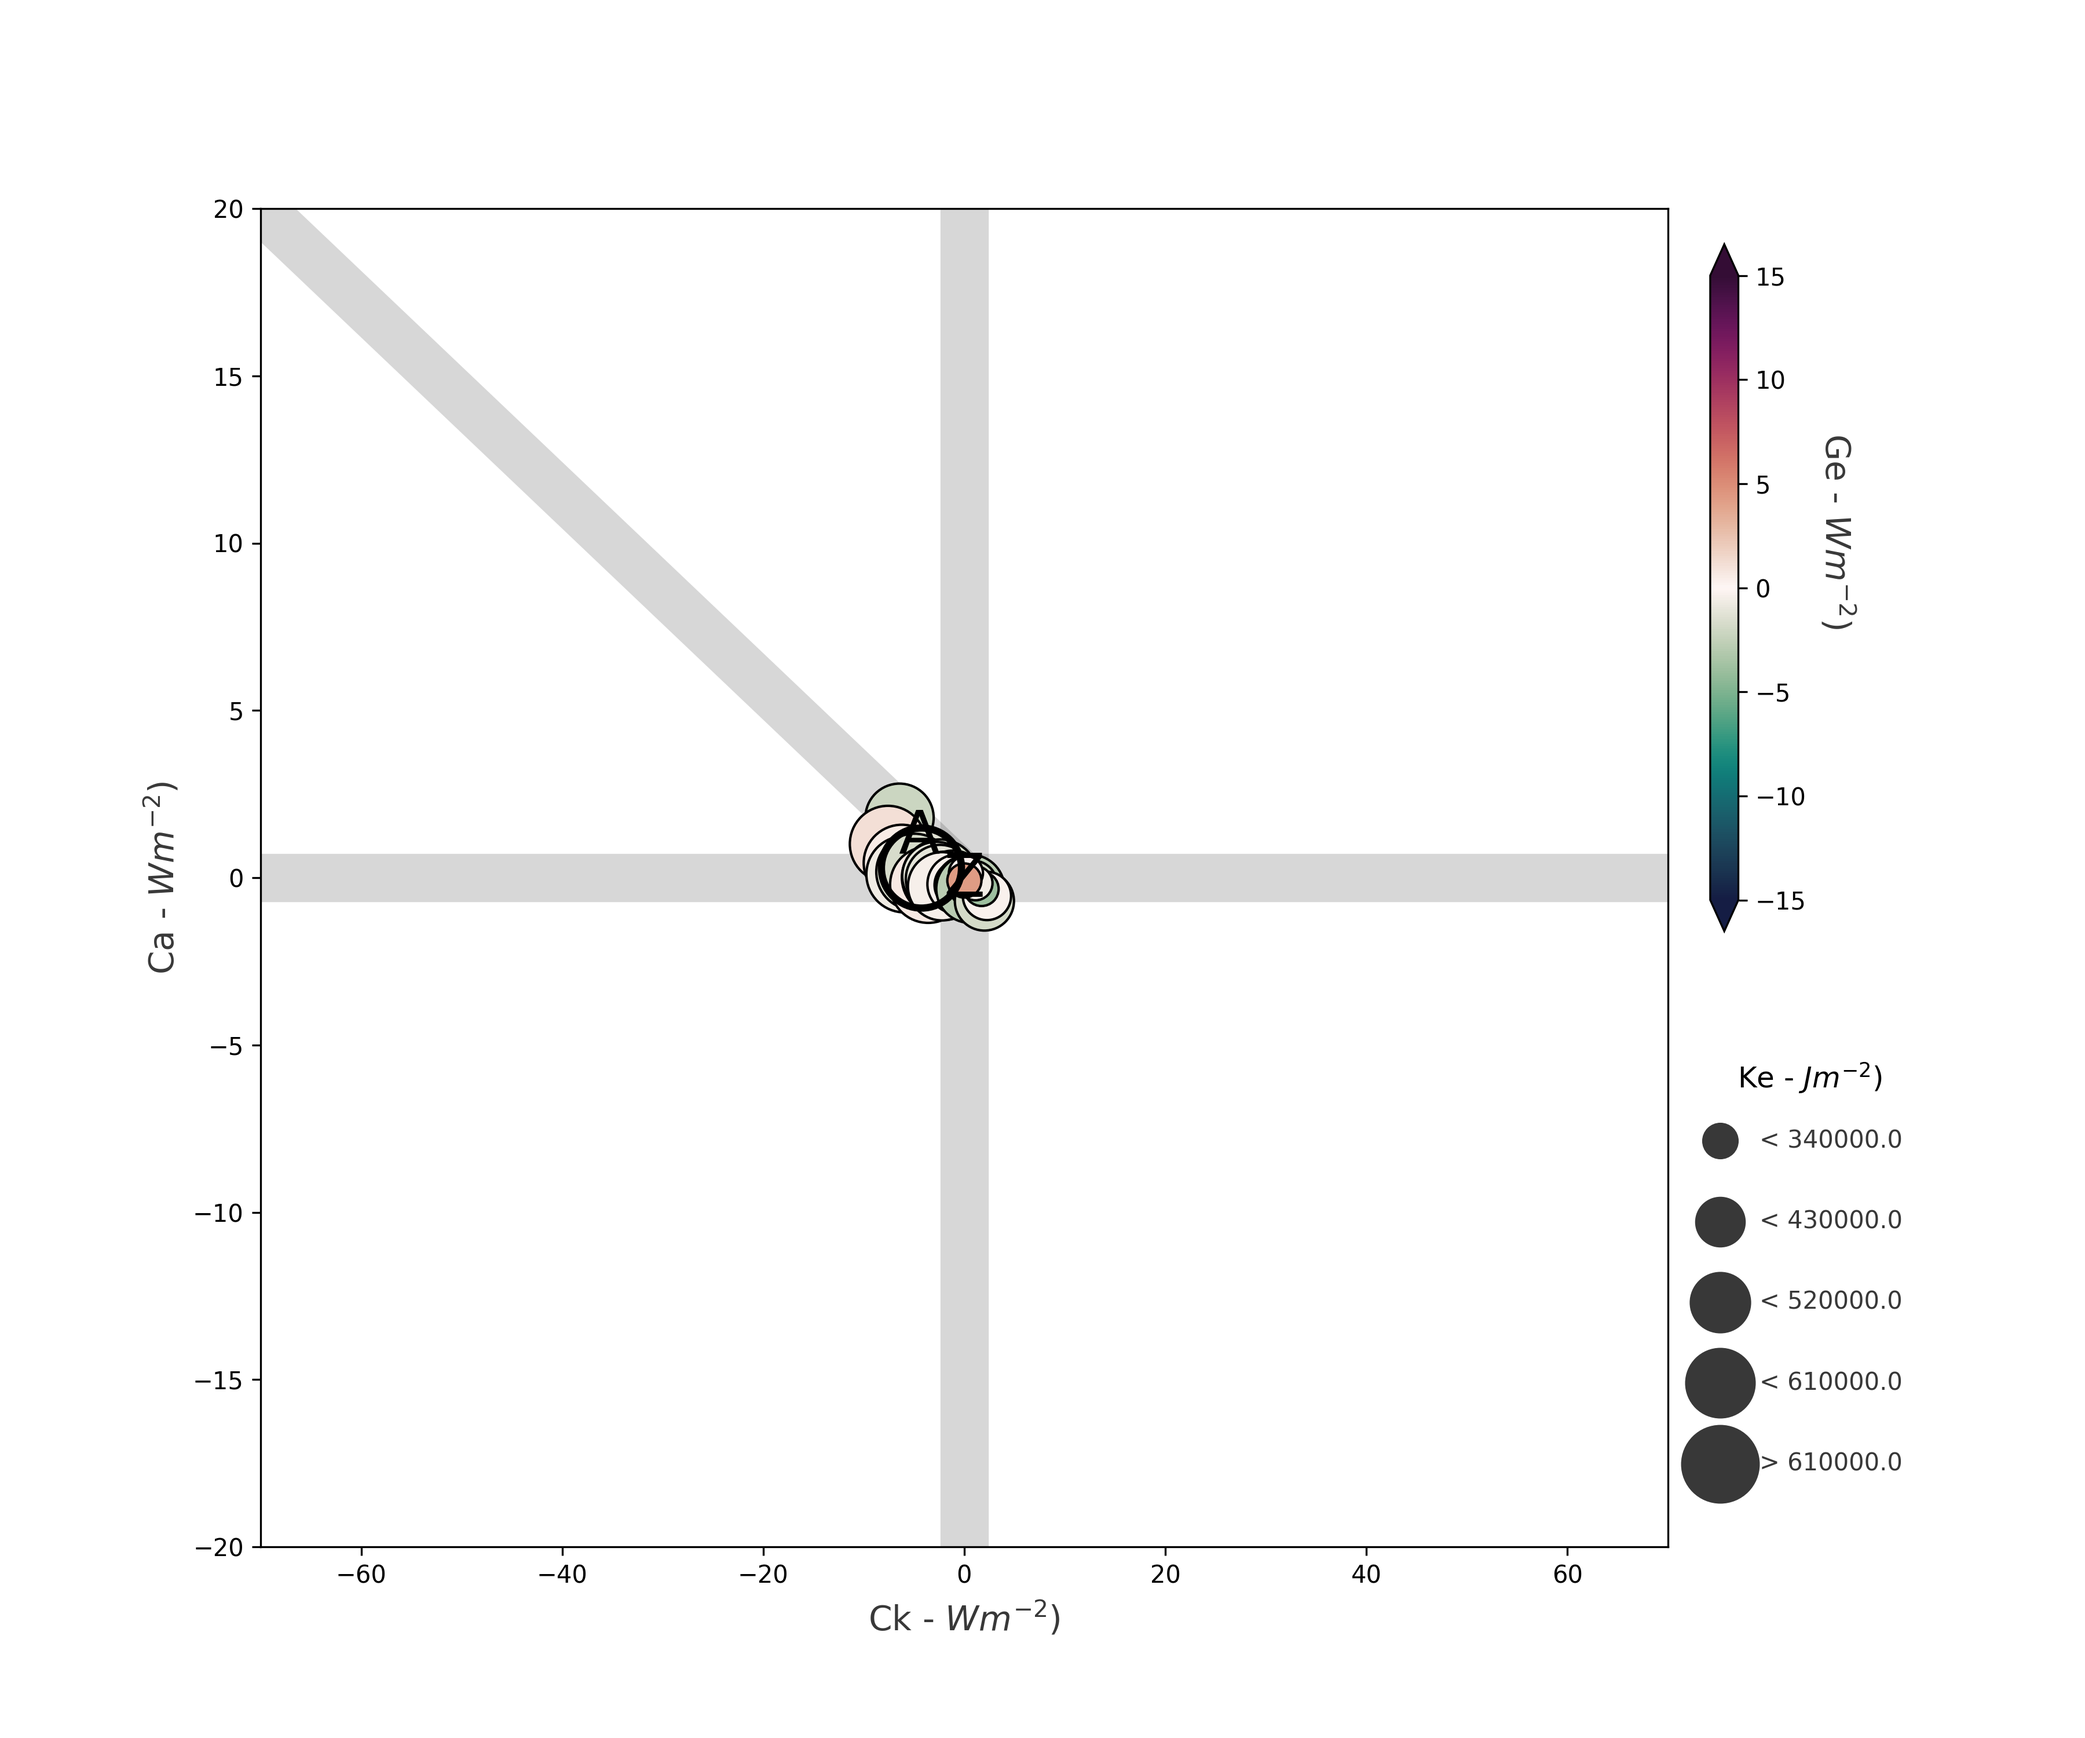
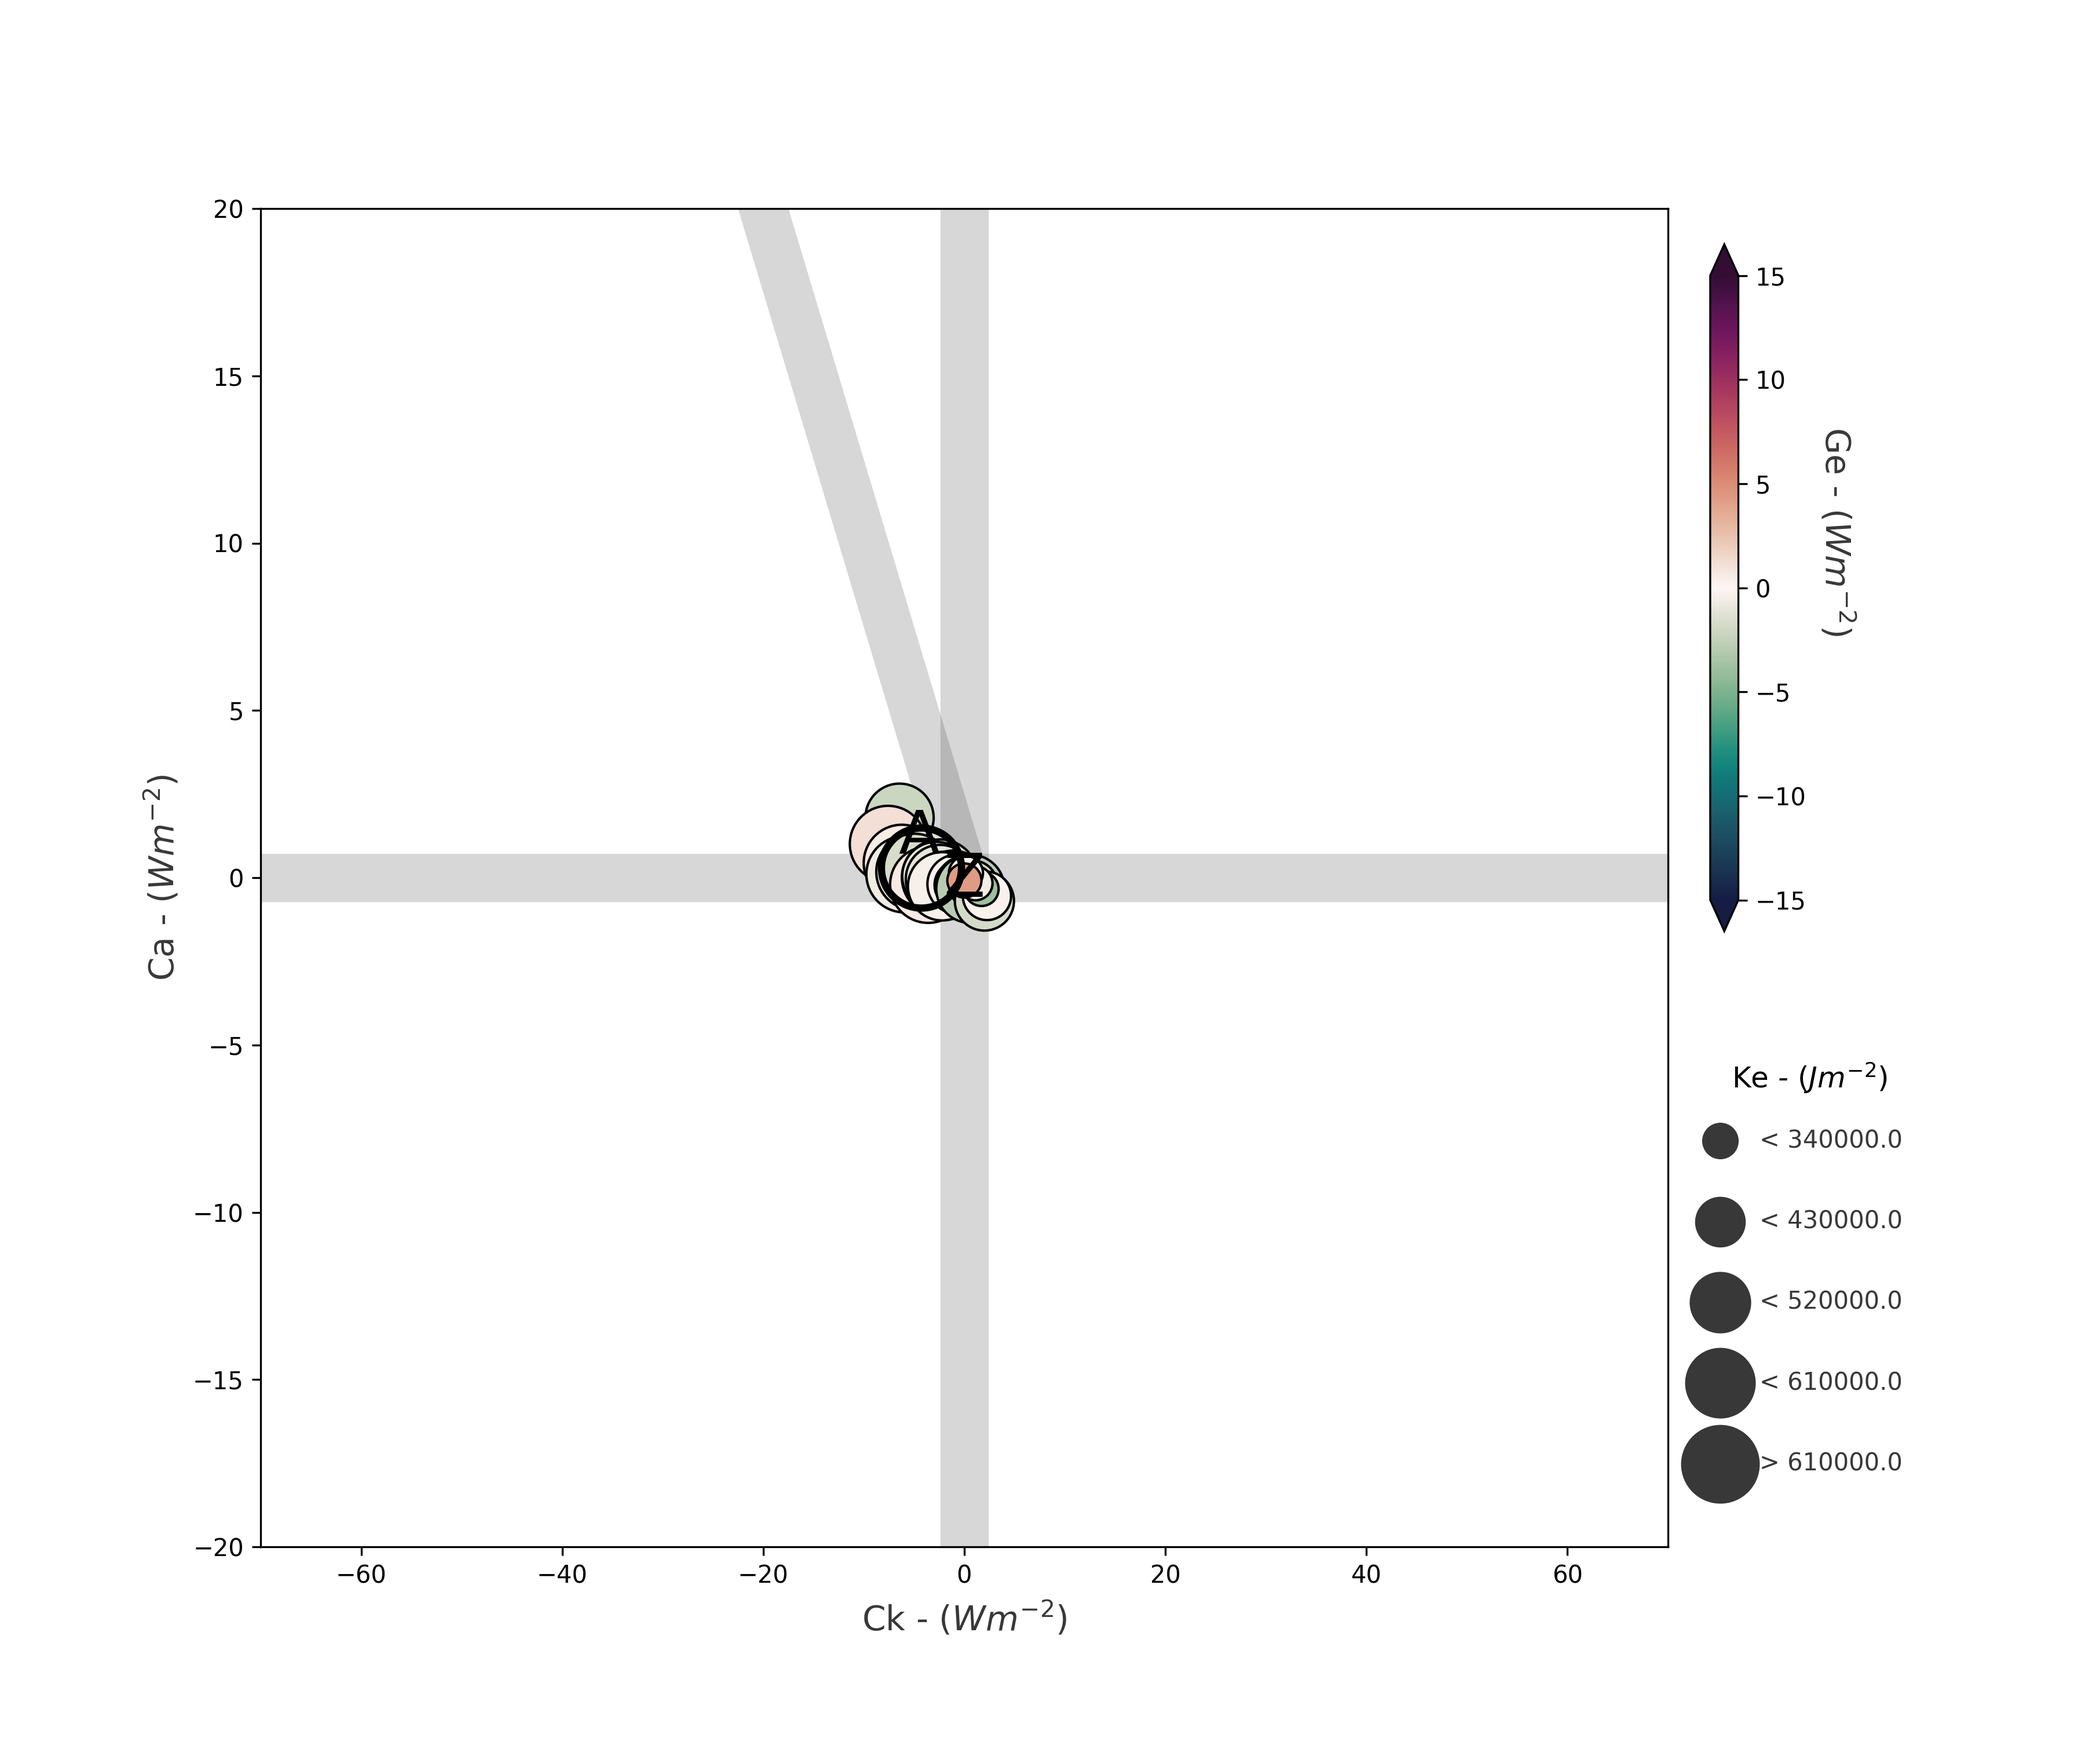
version 1.2.4

diff --git a/lorenz_phase_space/phase_diagrams.py b/lorenz_phase_space/phase_diagrams.py
@@ -6,7 +6,7 @@
 #    By: daniloceano <danilo.oceano@gmail.com>      +#+  +:+       +#+         #
 #                                                 +#+#+#+#+#+   +#+            #
 #    Created: 2023/12/29 16:13:35 by daniloceano       #+#    #+#              #
-#    Updated: 2024/07/01 11:10:57 by daniloceano      ###   ########.fr        #
+#    Updated: 2024/07/03 20:29:27 by daniloceano      ###   ########.fr        #
 #                                                                              #
 # **************************************************************************** #
 
@@ -198,10 +198,10 @@ class Visualizer:
             labels_dict['upper_right'] = 'Baroclinic instability'
 
             if self.zoom:
-                labels_dict['x_label'] = 'Ck - $W m^{-2})$'
-                labels_dict['y_label'] = 'Ca - $W m^{-2})$'
-                labels_dict['color_label'] = 'Ge - $W m^{-2})$'
-                labels_dict['size_label'] = 'Ke - $J m^{-2})$'
+                labels_dict['x_label'] = 'Ck - $(W m^{-2})$'
+                labels_dict['y_label'] = 'Ca - $(W m^{-2})$'
+                labels_dict['color_label'] = 'Ge - $(W m^{-2})$'
+                labels_dict['size_label'] = 'Ke - $(J m^{-2})$'
             else:
                 labels_dict['x_label'] = 'Conversion from zonal to eddy Kinetic Energy (Ck - $W m^{-2})$'
                 labels_dict['y_label'] = 'Conversion from zonal to eddy Potential Energy (Ca - $W m^{-2})$'
@@ -221,10 +221,10 @@ class Visualizer:
             labels_dict['upper_right'] = 'Baroclinic instability'
             
             if self.zoom:
-                labels_dict['x_label'] = 'Ce - $W m^{-2})$'
-                labels_dict['y_label'] = 'Ca - $W m^{-2})$'
-                labels_dict['color_label'] = 'Ge - $W m^{-2})$'
-                labels_dict['size_label'] = 'Ke - $J m^{-2})$'
+                labels_dict['x_label'] = 'Ce - $(W m^{-2})$'
+                labels_dict['y_label'] = 'Ca - $(W m^{-2})$'
+                labels_dict['color_label'] = 'Ge - $(W m^{-2})$'
+                labels_dict['size_label'] = 'Ke - $(J m^{-2})$'
             else:
                 labels_dict['x_label'] = 'Conversion from zonal to eddy Kinetic Energy (Ce - $W m^{-2})$'
                 labels_dict['y_label'] = 'Conversion from zonal to eddy Potential Energy (Ca - $W m^{-2})$'
@@ -244,10 +244,10 @@ class Visualizer:
             labels_dict['upper_right'] = ''
 
             if self.zoom:
-                labels_dict['x_label'] = 'BAe - $W m^{-2})$'
-                labels_dict['y_label'] = 'Bke - $W m^{-2})$'
-                labels_dict['color_label'] = 'Ge - $W m^{-2})$'
-                labels_dict['size_label'] = 'Ke - $J m^{-2})$'
+                labels_dict['x_label'] = 'BAe - $(W m^{-2})$'
+                labels_dict['y_label'] = 'Bke - $(W m^{-2})$'
+                labels_dict['color_label'] = 'Ge - $(W m^{-2})$'
+                labels_dict['size_label'] = 'Ke - $(J m^{-2})$'
             else:
                 labels_dict['x_label'] = 'Eddy Available Potential Energy transport across boundaries (BAe - $Wm^{-2})$'
                 labels_dict['y_label'] = 'Eddy Kinetic Energy transport across boundaries (BKe - $Wm^{-2})$'
@@ -329,17 +329,18 @@ class Visualizer:
         self.ax.axhline(y=0,linewidth=linewidth, c=color, alpha=alpha,zorder=1)
         self.ax.axvline(x=0,linewidth=linewidth, c=color, alpha=alpha,zorder=1)
 
-        # Vertical lines for mixed LPS
+        # Diagonal lines for mixed LPS
         if self.LPS_type == 'mixed':
             # Get the end points of the plot
-            end_point_x = limits[0] * 2
-            end_point_y = limits[3] * 2
+            end_point_x = limits[0]
+            end_point_y = - end_point_x
 
             # Generate points for the line
             x_points = np.linspace(0, end_point_x, 100)
             y_points = np.linspace(0, end_point_y, 100)
 
             self.ax.plot(x_points, y_points, linewidth=linewidth, c=color, alpha=alpha, zorder=2) 
+
                 
     def plot_gradient_lines(self, **kwargs):
         # Configure properties from kwargs

diff --git a/setup.py b/setup.py
@@ -4,7 +4,7 @@ from setuptools import setup, find_packages
 with open('README.md', encoding='utf-8') as f:
     LONG_DESCRIPTION = f.read()
 
-VERSION = '1.2.3'
+VERSION = '1.2.4'
 DESCRIPTION = 'Visualization tool designed to analyze and illustrate the Lorenz Energy Cycle for atmospheric science.'
 
 setup(

diff --git a/README.md b/README.md
@@ -23,8 +23,8 @@ This mode is particularly useful for comprehensively analyzing scenarios where b
 - Baroclinic Mode: Focuses on the baroclinic processes, highlighting the role of temperature gradients and their impact on atmospheric energy transformations.
 This mode is vital for studying weather systems and jet stream dynamics.
 
-- Barotropic Mode: Concentrates on barotropic processes, where the redistribution of kinetic energy is predominant. 
-This mode is essential for understanding the horizontal movement of air and its implications on weather patterns.
+- Mixed Mode: Concentrates on processes related to imports and exports of eddy energy.
+This mode is useful for understanding scenarios where a nearby eddy is trigerring local development
 
 
 By utilizing the LPS tool, researchers and meteorologists can delve into the complexities of atmospheric energy cycles, gaining insights into how different energy forms interact and influence weather systems and climate patterns. 

diff --git a/CHANGELOG.md b/CHANGELOG.md
@@ -5,6 +5,12 @@ All notable changes to this project will be documented in this file.
 The format is based on [Keep a Changelog](http://keepachangelog.com/)
 and this project adheres to [Semantic Versioning](http://semver.org/).
 
+## [1.2.4] - 2024-07-03
+
+### Bug Fixes
+- Wrong parenthesis on labels
+- Diagonal line on mixed-zoom plot
+
 ## [1.2.3] - 2024-07-01
 
 ### Changed
